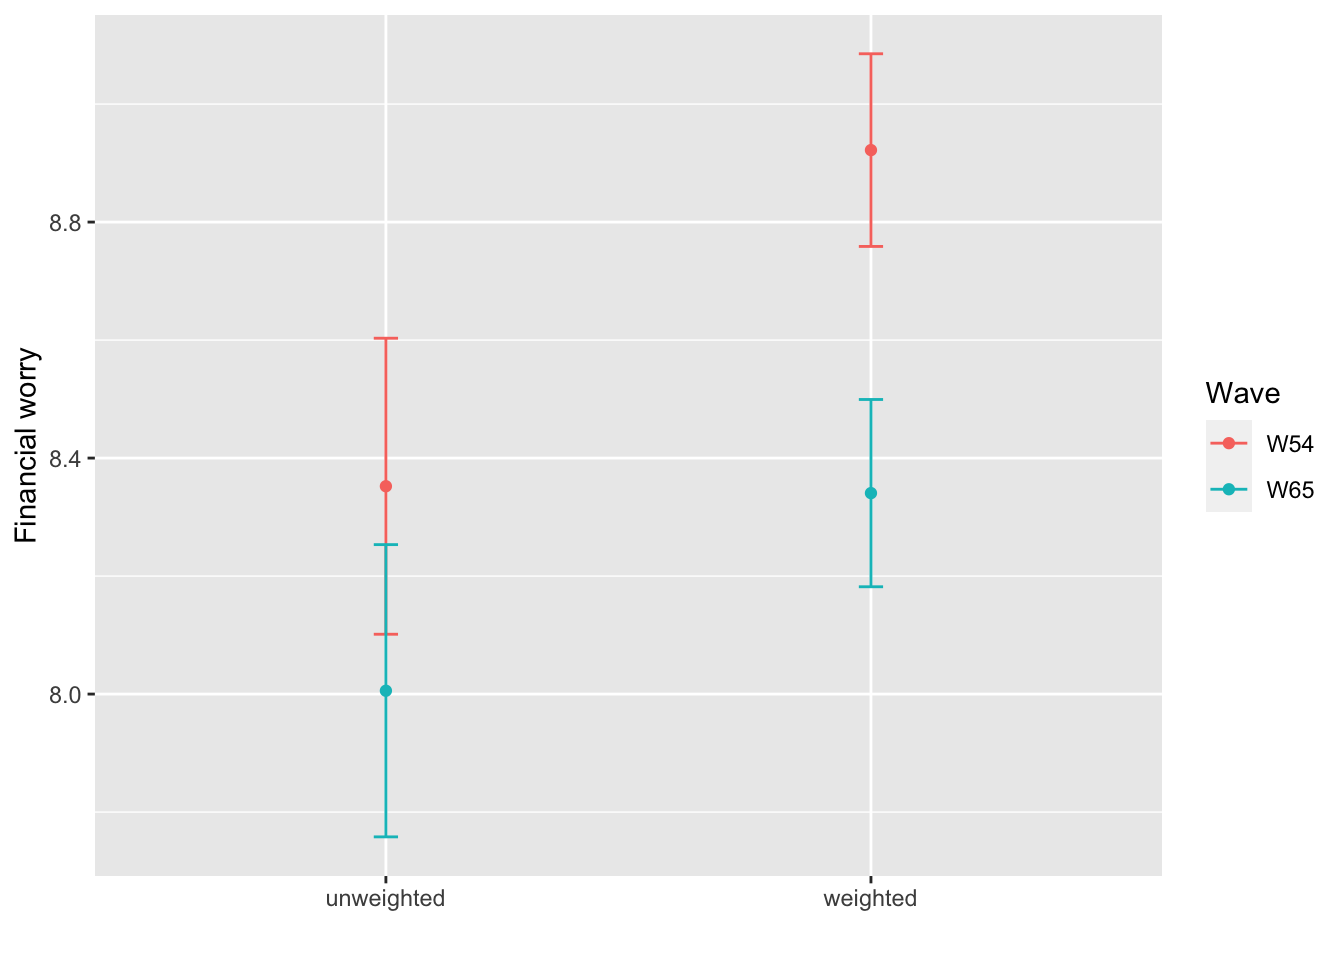
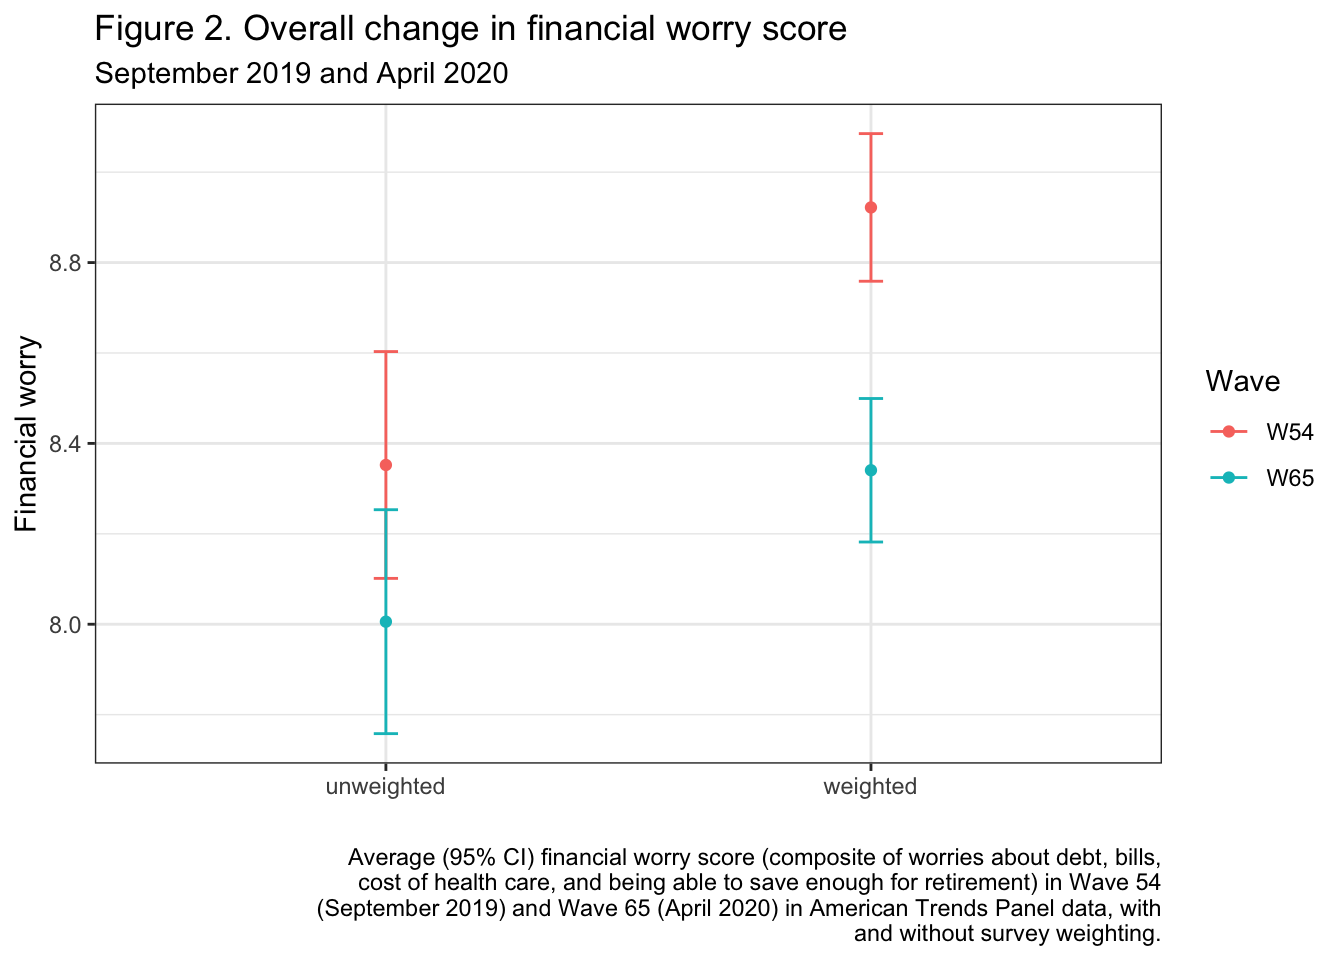
updated

diff --git a/docs/example.html b/docs/example.html
@@ -140,7 +140,7 @@ div.csl-indent {
   </li>  
   <li class="nav-item">
     <a class="nav-link" href="./about.html" rel="" target="">
- <span class="menu-text">About</span></a>
+ <span class="menu-text">About me</span></a>
   </li>  
   <li class="nav-item">
     <a class="nav-link active" href="./example.html" rel="" target="" aria-current="page">
@@ -493,16 +493,13 @@ Caution
 <span id="cb18-19"><a href="#cb18-19" aria-hidden="true" tabindex="-1"></a>  <span class="fu">geom_point</span>(<span class="fu">aes</span>(<span class="at">colour=</span>Wave, <span class="at">y=</span>mean,<span class="at">x=</span>Weighting_mean)) <span class="sc">+</span> </span>
 <span id="cb18-20"><a href="#cb18-20" aria-hidden="true" tabindex="-1"></a>  <span class="fu">geom_errorbar</span>(<span class="fu">aes</span>(<span class="at">colour=</span>Wave,<span class="at">ymin=</span>(mean<span class="fl">-1.96</span><span class="sc">*</span>se),<span class="at">ymax=</span>(mean <span class="sc">+</span> <span class="fl">1.96</span><span class="sc">*</span>se),</span>
 <span id="cb18-21"><a href="#cb18-21" aria-hidden="true" tabindex="-1"></a>                    <span class="at">x=</span>Weighting_mean),<span class="at">width=</span>.<span class="dv">05</span>) <span class="sc">+</span></span>
-<span id="cb18-22"><a href="#cb18-22" aria-hidden="true" tabindex="-1"></a>  <span class="fu">xlab</span>(<span class="st">""</span>) <span class="sc">+</span> <span class="fu">ylab</span>(<span class="st">"Financial worry"</span>)</span></code><button title="Copy to Clipboard" class="code-copy-button"><i class="bi"></i></button></pre></div>
+<span id="cb18-22"><a href="#cb18-22" aria-hidden="true" tabindex="-1"></a>  <span class="fu">xlab</span>(<span class="st">""</span>) <span class="sc">+</span> <span class="fu">ylab</span>(<span class="st">"Financial worry"</span>) <span class="sc">+</span> </span>
+<span id="cb18-23"><a href="#cb18-23" aria-hidden="true" tabindex="-1"></a>  <span class="fu">labs</span>(<span class="at">title=</span><span class="st">"Figure 2. Overall change in financial worry score"</span>, </span>
+<span id="cb18-24"><a href="#cb18-24" aria-hidden="true" tabindex="-1"></a>       <span class="at">subtitle =</span> <span class="st">"September 2019 and April 2020"</span>,</span>
+<span id="cb18-25"><a href="#cb18-25" aria-hidden="true" tabindex="-1"></a>       <span class="at">caption=</span><span class="fu">str_wrap</span>(<span class="st">"Average (95% CI) financial worry score (composite of worries about debt, bills, cost of health care, and being able to save enough for retirement) in Wave 54 (September 2019) and Wave 65 (April 2020) in American Trends Panel data, with and without survey weighting."</span>))  <span class="sc">+</span></span>
+<span id="cb18-26"><a href="#cb18-26" aria-hidden="true" tabindex="-1"></a>  <span class="fu">theme_bw</span>()</span></code><button title="Copy to Clipboard" class="code-copy-button"><i class="bi"></i></button></pre></div>
 <div class="cell-output-display">
 <p><img src="example_files/figure-html/unnamed-chunk-11-1.png" class="img-fluid" width="672"></p>
-</div>
-<div class="sourceCode cell-code" id="cb19"><pre class="sourceCode r code-with-copy"><code class="sourceCode r"><span id="cb19-1"><a href="#cb19-1" aria-hidden="true" tabindex="-1"></a>  <span class="fu">labs</span>(<span class="at">title=</span><span class="st">"Figure 2. Overall change in financial worry score"</span>, </span>
-<span id="cb19-2"><a href="#cb19-2" aria-hidden="true" tabindex="-1"></a>       <span class="at">subtitle =</span> <span class="st">"September 2019 and April 2020"</span>,</span>
-<span id="cb19-3"><a href="#cb19-3" aria-hidden="true" tabindex="-1"></a>       <span class="at">caption=</span><span class="fu">str_wrap</span>(<span class="st">"Average (95% CI) financial worry score (composite of worries about debt, bills, cost of health care, and being able to save enough for retirement) in Wave 54 (September 2019) and Wave 65 (April 2020) in American Trends Panel data, with and without survey weighting."</span>))  <span class="sc">+</span></span>
-<span id="cb19-4"><a href="#cb19-4" aria-hidden="true" tabindex="-1"></a>  <span class="fu">theme_bw</span>()</span></code><button title="Copy to Clipboard" class="code-copy-button"><i class="bi"></i></button></pre></div>
-<div class="cell-output cell-output-stdout">
-<pre><code>NULL</code></pre>
 </div>
 </div>
 </section>
@@ -510,18 +507,18 @@ Caution
 <h3 class="anchored" data-anchor-id="by-income-or-job-loss-group">By income or job loss group</h3>
 <p>Next we plot weighted average financial worry by income or job loss group. We see that while weighted average worry tends to be higher in the income or job loss group, both groups had a decrease in composite financial worry score.</p>
 <div class="cell">
-<div class="sourceCode cell-code" id="cb21"><pre class="sourceCode r code-with-copy"><code class="sourceCode r"><span id="cb21-1"><a href="#cb21-1" aria-hidden="true" tabindex="-1"></a>long <span class="sc">%&gt;%</span> <span class="fu">group_by</span>(Wave,income_loss) <span class="sc">%&gt;%</span></span>
-<span id="cb21-2"><a href="#cb21-2" aria-hidden="true" tabindex="-1"></a>  <span class="fu">summarize</span>(<span class="at">mean =</span> <span class="fu">weighted.mean</span>(WORRY_int,WEIGHT_W65),</span>
-<span id="cb21-3"><a href="#cb21-3" aria-hidden="true" tabindex="-1"></a>            <span class="at">se=</span><span class="fu">sd</span>(WORRY_int,<span class="at">na.rm=</span><span class="cn">TRUE</span>)<span class="sc">/</span><span class="fu">sqrt</span>(<span class="fu">n</span>())) <span class="sc">%&gt;%</span> </span>
-<span id="cb21-4"><a href="#cb21-4" aria-hidden="true" tabindex="-1"></a>  <span class="fu">ggplot</span>() <span class="sc">+</span></span>
-<span id="cb21-5"><a href="#cb21-5" aria-hidden="true" tabindex="-1"></a>  <span class="fu">geom_point</span>(<span class="fu">aes</span>(<span class="at">x=</span>Wave, <span class="at">y=</span>mean)) <span class="sc">+</span> </span>
-<span id="cb21-6"><a href="#cb21-6" aria-hidden="true" tabindex="-1"></a>  <span class="fu">geom_line</span>(<span class="fu">aes</span>(<span class="at">x=</span>Wave, <span class="at">y=</span>mean,<span class="at">linetype=</span>income_loss,<span class="at">group=</span>income_loss)) <span class="sc">+</span> </span>
-<span id="cb21-7"><a href="#cb21-7" aria-hidden="true" tabindex="-1"></a>  <span class="fu">geom_errorbar</span>(<span class="fu">aes</span>(<span class="at">x=</span>Wave,<span class="at">ymin=</span>(mean<span class="fl">-1.96</span><span class="sc">*</span>se),<span class="at">ymax=</span>(mean <span class="sc">+</span> <span class="fl">1.96</span><span class="sc">*</span>se)),<span class="at">width=</span>.<span class="dv">05</span>) <span class="sc">+</span></span>
-<span id="cb21-8"><a href="#cb21-8" aria-hidden="true" tabindex="-1"></a>  <span class="fu">labs</span>(<span class="at">linetype=</span><span class="st">"Income or job loss"</span>,</span>
-<span id="cb21-9"><a href="#cb21-9" aria-hidden="true" tabindex="-1"></a>       <span class="at">title=</span><span class="st">"Figure 3. Financial worry score by income or job loss group"</span>,</span>
-<span id="cb21-10"><a href="#cb21-10" aria-hidden="true" tabindex="-1"></a>       <span class="at">subtitle =</span> <span class="st">"September 2019 and April 2020"</span>,</span>
-<span id="cb21-11"><a href="#cb21-11" aria-hidden="true" tabindex="-1"></a>       <span class="at">caption=</span><span class="fu">str_wrap</span>(<span class="st">"Average (95% CI) financial worry score (composite of worries about debt, bills, cost of health care, and being able to save enough for retirement) in Wave 54 (September 2019) and Wave 65 (April 2020) in American Trends Panel data, with survey weighting. Income or job loss due to teh COVID-19 pandemic was reported in April 2020."</span>)) <span class="sc">+</span></span>
-<span id="cb21-12"><a href="#cb21-12" aria-hidden="true" tabindex="-1"></a>  <span class="fu">theme_bw</span>()</span></code><button title="Copy to Clipboard" class="code-copy-button"><i class="bi"></i></button></pre></div>
+<div class="sourceCode cell-code" id="cb19"><pre class="sourceCode r code-with-copy"><code class="sourceCode r"><span id="cb19-1"><a href="#cb19-1" aria-hidden="true" tabindex="-1"></a>long <span class="sc">%&gt;%</span> <span class="fu">group_by</span>(Wave,income_loss) <span class="sc">%&gt;%</span></span>
+<span id="cb19-2"><a href="#cb19-2" aria-hidden="true" tabindex="-1"></a>  <span class="fu">summarize</span>(<span class="at">mean =</span> <span class="fu">weighted.mean</span>(WORRY_int,WEIGHT_W65),</span>
+<span id="cb19-3"><a href="#cb19-3" aria-hidden="true" tabindex="-1"></a>            <span class="at">se=</span><span class="fu">sd</span>(WORRY_int,<span class="at">na.rm=</span><span class="cn">TRUE</span>)<span class="sc">/</span><span class="fu">sqrt</span>(<span class="fu">n</span>())) <span class="sc">%&gt;%</span> </span>
+<span id="cb19-4"><a href="#cb19-4" aria-hidden="true" tabindex="-1"></a>  <span class="fu">ggplot</span>() <span class="sc">+</span></span>
+<span id="cb19-5"><a href="#cb19-5" aria-hidden="true" tabindex="-1"></a>  <span class="fu">geom_point</span>(<span class="fu">aes</span>(<span class="at">x=</span>Wave, <span class="at">y=</span>mean)) <span class="sc">+</span> </span>
+<span id="cb19-6"><a href="#cb19-6" aria-hidden="true" tabindex="-1"></a>  <span class="fu">geom_line</span>(<span class="fu">aes</span>(<span class="at">x=</span>Wave, <span class="at">y=</span>mean,<span class="at">linetype=</span>income_loss,<span class="at">group=</span>income_loss)) <span class="sc">+</span> </span>
+<span id="cb19-7"><a href="#cb19-7" aria-hidden="true" tabindex="-1"></a>  <span class="fu">geom_errorbar</span>(<span class="fu">aes</span>(<span class="at">x=</span>Wave,<span class="at">ymin=</span>(mean<span class="fl">-1.96</span><span class="sc">*</span>se),<span class="at">ymax=</span>(mean <span class="sc">+</span> <span class="fl">1.96</span><span class="sc">*</span>se)),<span class="at">width=</span>.<span class="dv">05</span>) <span class="sc">+</span></span>
+<span id="cb19-8"><a href="#cb19-8" aria-hidden="true" tabindex="-1"></a>  <span class="fu">labs</span>(<span class="at">linetype=</span><span class="st">"Income or job loss"</span>,</span>
+<span id="cb19-9"><a href="#cb19-9" aria-hidden="true" tabindex="-1"></a>       <span class="at">title=</span><span class="st">"Figure 3. Financial worry score by income or job loss group"</span>,</span>
+<span id="cb19-10"><a href="#cb19-10" aria-hidden="true" tabindex="-1"></a>       <span class="at">subtitle =</span> <span class="st">"September 2019 and April 2020"</span>,</span>
+<span id="cb19-11"><a href="#cb19-11" aria-hidden="true" tabindex="-1"></a>       <span class="at">caption=</span><span class="fu">str_wrap</span>(<span class="st">"Average (95% CI) financial worry score (composite of worries about debt, bills, cost of health care, and being able to save enough for retirement) in Wave 54 (September 2019) and Wave 65 (April 2020) in American Trends Panel data, with survey weighting. Income or job loss due to teh COVID-19 pandemic was reported in April 2020."</span>)) <span class="sc">+</span></span>
+<span id="cb19-12"><a href="#cb19-12" aria-hidden="true" tabindex="-1"></a>  <span class="fu">theme_bw</span>()</span></code><button title="Copy to Clipboard" class="code-copy-button"><i class="bi"></i></button></pre></div>
 <div class="cell-output-display">
 <p><img src="example_files/figure-html/unnamed-chunk-12-1.png" class="img-fluid" width="672"></p>
 </div>
@@ -531,19 +528,19 @@ Caution
 <h3 class="anchored" data-anchor-id="and-by-worry-type">And by worry type</h3>
 <p>Financially, we disaggregate by worry type. Here we see that worry about bills was higher in April 2020 than in September 2019 for those who experienced income or job loss by April 2020, but that all other categories of worry decreased.</p>
 <div class="cell">
-<div class="sourceCode cell-code" id="cb22"><pre class="sourceCode r code-with-copy"><code class="sourceCode r"><span id="cb22-1"><a href="#cb22-1" aria-hidden="true" tabindex="-1"></a>long <span class="sc">%&gt;%</span> <span class="fu">group_by</span>(Wave,Q,income_loss) <span class="sc">%&gt;%</span></span>
-<span id="cb22-2"><a href="#cb22-2" aria-hidden="true" tabindex="-1"></a>  <span class="fu">summarize</span>(<span class="at">mean =</span> <span class="fu">weighted.mean</span>(WORRY_int,WEIGHT_W65),</span>
-<span id="cb22-3"><a href="#cb22-3" aria-hidden="true" tabindex="-1"></a>            <span class="at">se=</span><span class="fu">sd</span>(WORRY_int,<span class="at">na.rm=</span><span class="cn">TRUE</span>)<span class="sc">/</span><span class="fu">sqrt</span>(<span class="fu">n</span>())) <span class="sc">%&gt;%</span> </span>
-<span id="cb22-4"><a href="#cb22-4" aria-hidden="true" tabindex="-1"></a>  <span class="fu">ggplot</span>() <span class="sc">+</span></span>
-<span id="cb22-5"><a href="#cb22-5" aria-hidden="true" tabindex="-1"></a>  <span class="fu">geom_point</span>(<span class="fu">aes</span>(<span class="at">x=</span>Wave, <span class="at">y=</span>mean,<span class="at">colour=</span>Q)) <span class="sc">+</span> </span>
-<span id="cb22-6"><a href="#cb22-6" aria-hidden="true" tabindex="-1"></a>  <span class="fu">geom_line</span>(<span class="fu">aes</span>(<span class="at">x=</span>Wave, <span class="at">y=</span>mean,<span class="at">colour=</span>Q,<span class="at">linetype=</span>income_loss,<span class="at">group=</span><span class="fu">interaction</span>(income_loss,Q))) <span class="sc">+</span> </span>
-<span id="cb22-7"><a href="#cb22-7" aria-hidden="true" tabindex="-1"></a>  <span class="fu">geom_errorbar</span>(<span class="fu">aes</span>(<span class="at">x=</span>Wave,<span class="at">ymin=</span>(mean<span class="fl">-1.96</span><span class="sc">*</span>se),<span class="at">ymax=</span>(mean <span class="sc">+</span> <span class="fl">1.96</span><span class="sc">*</span>se),<span class="at">colour=</span>Q),<span class="at">width=</span>.<span class="dv">05</span>)<span class="sc">+</span> <span class="fu">facet_wrap</span>(.<span class="sc">~</span>Q)  <span class="sc">+</span></span>
-<span id="cb22-8"><a href="#cb22-8" aria-hidden="true" tabindex="-1"></a>  <span class="fu">scale_colour_discrete</span>(<span class="at">name=</span><span class="st">"Worry type"</span>) <span class="sc">+</span> </span>
-<span id="cb22-9"><a href="#cb22-9" aria-hidden="true" tabindex="-1"></a>  <span class="fu">labs</span>(<span class="at">linetype=</span><span class="st">"Income or job loss"</span>,</span>
-<span id="cb22-10"><a href="#cb22-10" aria-hidden="true" tabindex="-1"></a>       <span class="at">title=</span><span class="st">"Figure 4. Financial worry subscores by income or job loss group"</span>,</span>
-<span id="cb22-11"><a href="#cb22-11" aria-hidden="true" tabindex="-1"></a>       <span class="at">subtitle =</span> <span class="st">"September 2019 and April 2020"</span>,</span>
-<span id="cb22-12"><a href="#cb22-12" aria-hidden="true" tabindex="-1"></a>       <span class="at">caption=</span><span class="fu">str_wrap</span>(<span class="st">"Average (95% CI) financial worry score by category in Wave 54 (September 2019) and Wave 65 (April 2020) in American Trends Panel data, with survey weighting. Income or job loss due to the COVID-19 pandemic was reported in April 2020."</span>)) <span class="sc">+</span></span>
-<span id="cb22-13"><a href="#cb22-13" aria-hidden="true" tabindex="-1"></a>  <span class="fu">theme_bw</span>()</span></code><button title="Copy to Clipboard" class="code-copy-button"><i class="bi"></i></button></pre></div>
+<div class="sourceCode cell-code" id="cb20"><pre class="sourceCode r code-with-copy"><code class="sourceCode r"><span id="cb20-1"><a href="#cb20-1" aria-hidden="true" tabindex="-1"></a>long <span class="sc">%&gt;%</span> <span class="fu">group_by</span>(Wave,Q,income_loss) <span class="sc">%&gt;%</span></span>
+<span id="cb20-2"><a href="#cb20-2" aria-hidden="true" tabindex="-1"></a>  <span class="fu">summarize</span>(<span class="at">mean =</span> <span class="fu">weighted.mean</span>(WORRY_int,WEIGHT_W65),</span>
+<span id="cb20-3"><a href="#cb20-3" aria-hidden="true" tabindex="-1"></a>            <span class="at">se=</span><span class="fu">sd</span>(WORRY_int,<span class="at">na.rm=</span><span class="cn">TRUE</span>)<span class="sc">/</span><span class="fu">sqrt</span>(<span class="fu">n</span>())) <span class="sc">%&gt;%</span> </span>
+<span id="cb20-4"><a href="#cb20-4" aria-hidden="true" tabindex="-1"></a>  <span class="fu">ggplot</span>() <span class="sc">+</span></span>
+<span id="cb20-5"><a href="#cb20-5" aria-hidden="true" tabindex="-1"></a>  <span class="fu">geom_point</span>(<span class="fu">aes</span>(<span class="at">x=</span>Wave, <span class="at">y=</span>mean,<span class="at">colour=</span>Q)) <span class="sc">+</span> </span>
+<span id="cb20-6"><a href="#cb20-6" aria-hidden="true" tabindex="-1"></a>  <span class="fu">geom_line</span>(<span class="fu">aes</span>(<span class="at">x=</span>Wave, <span class="at">y=</span>mean,<span class="at">colour=</span>Q,<span class="at">linetype=</span>income_loss,<span class="at">group=</span><span class="fu">interaction</span>(income_loss,Q))) <span class="sc">+</span> </span>
+<span id="cb20-7"><a href="#cb20-7" aria-hidden="true" tabindex="-1"></a>  <span class="fu">geom_errorbar</span>(<span class="fu">aes</span>(<span class="at">x=</span>Wave,<span class="at">ymin=</span>(mean<span class="fl">-1.96</span><span class="sc">*</span>se),<span class="at">ymax=</span>(mean <span class="sc">+</span> <span class="fl">1.96</span><span class="sc">*</span>se),<span class="at">colour=</span>Q),<span class="at">width=</span>.<span class="dv">05</span>)<span class="sc">+</span> <span class="fu">facet_wrap</span>(.<span class="sc">~</span>Q)  <span class="sc">+</span></span>
+<span id="cb20-8"><a href="#cb20-8" aria-hidden="true" tabindex="-1"></a>  <span class="fu">scale_colour_discrete</span>(<span class="at">name=</span><span class="st">"Worry type"</span>) <span class="sc">+</span> </span>
+<span id="cb20-9"><a href="#cb20-9" aria-hidden="true" tabindex="-1"></a>  <span class="fu">labs</span>(<span class="at">linetype=</span><span class="st">"Income or job loss"</span>,</span>
+<span id="cb20-10"><a href="#cb20-10" aria-hidden="true" tabindex="-1"></a>       <span class="at">title=</span><span class="st">"Figure 4. Financial worry subscores by income or job loss group"</span>,</span>
+<span id="cb20-11"><a href="#cb20-11" aria-hidden="true" tabindex="-1"></a>       <span class="at">subtitle =</span> <span class="st">"September 2019 and April 2020"</span>,</span>
+<span id="cb20-12"><a href="#cb20-12" aria-hidden="true" tabindex="-1"></a>       <span class="at">caption=</span><span class="fu">str_wrap</span>(<span class="st">"Average (95% CI) financial worry score by category in Wave 54 (September 2019) and Wave 65 (April 2020) in American Trends Panel data, with survey weighting. Income or job loss due to the COVID-19 pandemic was reported in April 2020."</span>)) <span class="sc">+</span></span>
+<span id="cb20-13"><a href="#cb20-13" aria-hidden="true" tabindex="-1"></a>  <span class="fu">theme_bw</span>()</span></code><button title="Copy to Clipboard" class="code-copy-button"><i class="bi"></i></button></pre></div>
 <div class="cell-output-display">
 <p><img src="example_files/figure-html/unnamed-chunk-13-1.png" class="img-fluid" width="672"></p>
 </div>
@@ -568,7 +565,6 @@ Caution
 <section id="plotting-functions-used" class="level3">
 <h3 class="anchored" data-anchor-id="plotting-functions-used">Plotting functions used:</h3>
 <ul>
-<li><p>geom_bar</p></li>
 <li><p>geom_point</p></li>
 <li><p>geom_errorbar</p></li>
 <li><p>geom_line</p></li>

diff --git a/docs/about.html b/docs/about.html
@@ -7,7 +7,7 @@
 <meta name="viewport" content="width=device-width, initial-scale=1.0, user-scalable=yes">
 
 
-<title>grace v. ringlein - About</title>
+<title>grace v. ringlein - About me</title>
 <style>
 code{white-space: pre-wrap;}
 span.smallcaps{font-variant: small-caps;}
@@ -87,7 +87,7 @@ ul.task-list li input[type="checkbox"] {
   </li>  
   <li class="nav-item">
     <a class="nav-link active" href="./about.html" rel="" target="" aria-current="page">
- <span class="menu-text">About</span></a>
+ <span class="menu-text">About me</span></a>
   </li>  
   <li class="nav-item">
     <a class="nav-link" href="./example.html" rel="" target="">
@@ -105,20 +105,14 @@ ul.task-list li input[type="checkbox"] {
 <!-- sidebar -->
 <!-- margin-sidebar -->
     <div id="quarto-margin-sidebar" class="sidebar margin-sidebar">
-        <nav id="TOC" role="doc-toc" class="toc-active">
-    <h2 id="toc-title">On this page</h2>
-   
-  <ul>
-  <li><a href="#about-me" id="toc-about-me" class="nav-link active" data-scroll-target="#about-me">About me</a></li>
-  </ul>
-</nav>
+        
     </div>
 <!-- main -->
 <main class="content" id="quarto-document-content">
 
 <header id="title-block-header" class="quarto-title-block default">
 <div class="quarto-title">
-<h1 class="title">About</h1>
+<h1 class="title">About me</h1>
 </div>
 
 
@@ -133,12 +127,9 @@ ul.task-list li input[type="checkbox"] {
 
 </header>
 
-<section id="about-me" class="level2">
-<h2 class="anchored" data-anchor-id="about-me">About me</h2>
 <p>I am originally from Lancaster, PA and attended the University of Pennsylvania from 2016-2020, where I received my BA and MS in Physics and Astronomy. After graduating, I became a Postbaccalaureate research assistant in the Section on Development and Affective Neuroscience in the National Institute of Mental Health. In 2022, I started my PhD in Biostatistics at the Johns Hopkins Bloomberg School of Public Health and I am currently working on projects related to causal inference, algorithmic fairness, and mental health.</p>
 
 
-</section>
 
 </main> <!-- /main -->
 <script id="quarto-html-after-body" type="application/javascript">

diff --git a/docs/index.html b/docs/index.html
@@ -7,7 +7,7 @@
 <meta name="viewport" content="width=device-width, initial-scale=1.0, user-scalable=yes">
 
 
-<title>grace v. ringlein</title>
+<title>grace v. ringlein - Grace V. Ringlein</title>
 <style>
 code{white-space: pre-wrap;}
 span.smallcaps{font-variant: small-caps;}
@@ -87,7 +87,7 @@ ul.task-list li input[type="checkbox"] {
   </li>  
   <li class="nav-item">
     <a class="nav-link" href="./about.html" rel="" target="">
- <span class="menu-text">About</span></a>
+ <span class="menu-text">About me</span></a>
   </li>  
   <li class="nav-item">
     <a class="nav-link" href="./example.html" rel="" target="">
@@ -110,9 +110,23 @@ ul.task-list li input[type="checkbox"] {
 <!-- main -->
 <main class="content" id="quarto-document-content">
 
+<header id="title-block-header" class="quarto-title-block default">
+<div class="quarto-title">
+<h1 class="title">Grace V. Ringlein</h1>
+</div>
 
 
-<p>--- title: “Grace V. Ringlein” ---</p>
+
+<div class="quarto-title-meta">
+
+    
+  
+    
+  </div>
+  
+
+</header>
+
 <p>Biostatistics PhD student and cat-mom of two.</p>
 <p><img src="IMG_5904 2.jpg" class="img-fluid"></p>
 
